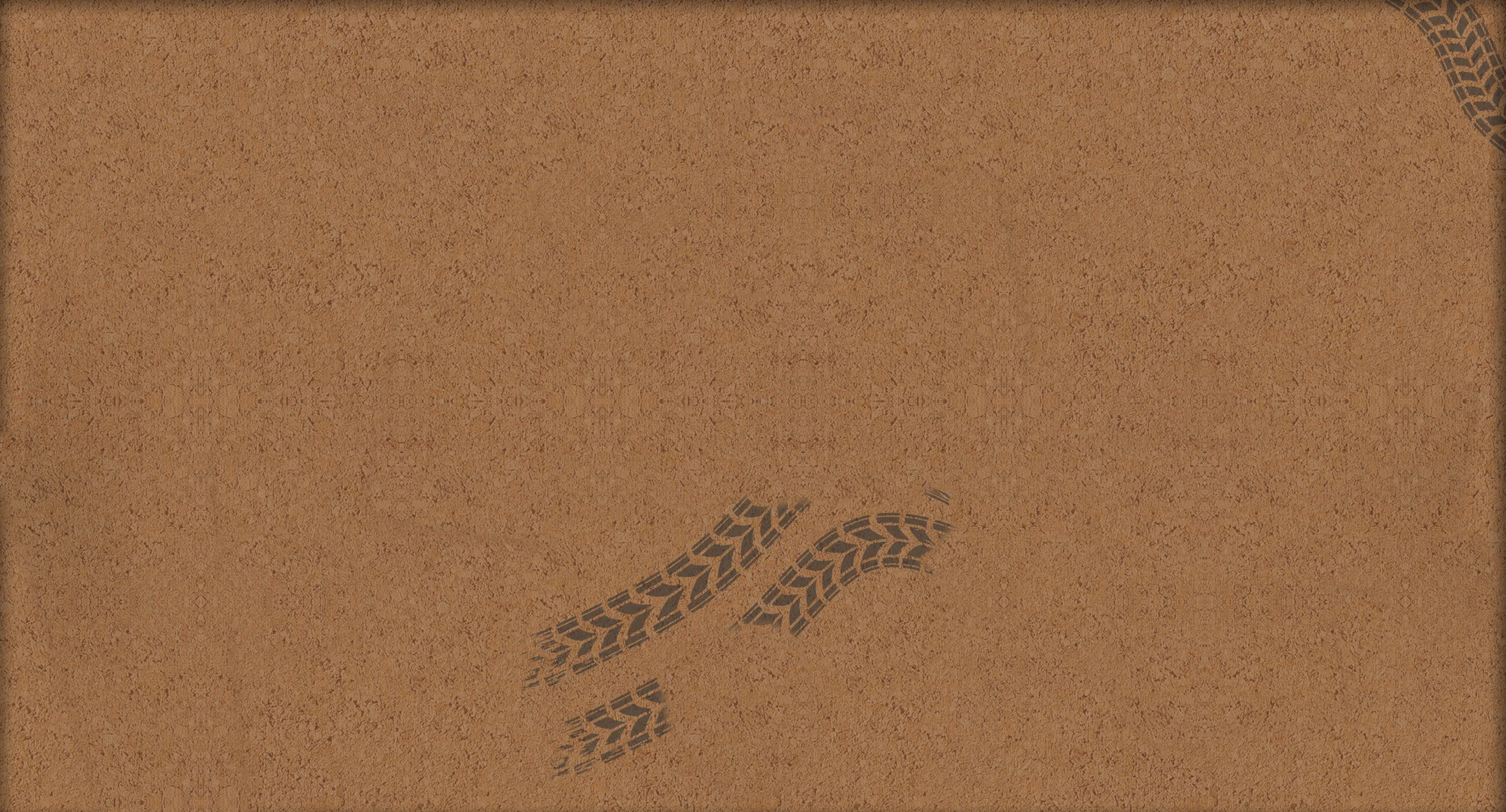
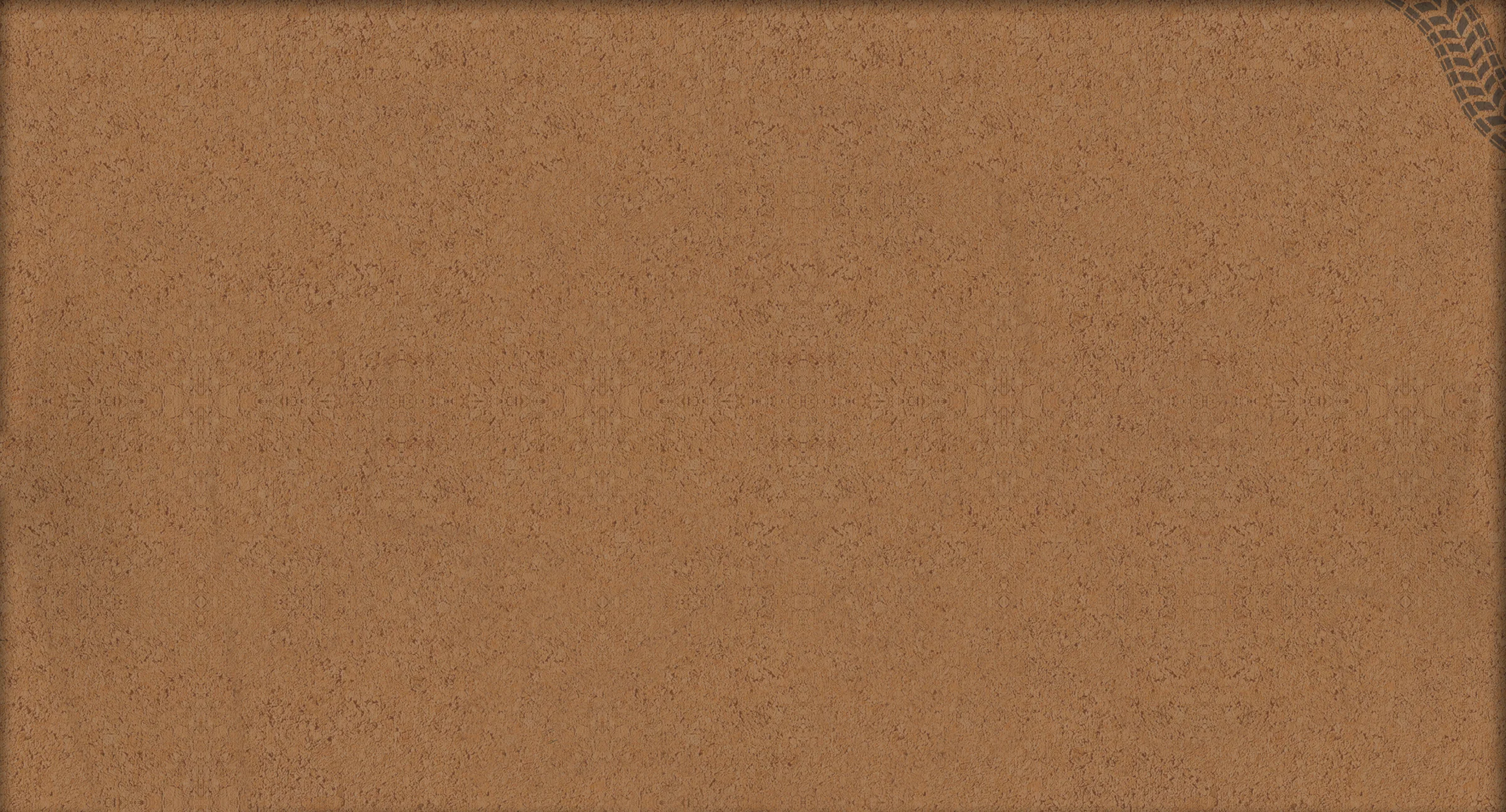
Skid the tyre tracks in together with the Arsenal badge
The middle tyre tracks are now their own intro layer (removed from the
empty board). They sit at the bottom of the stack but wipe on from the
left, like a skid, at the moment the Arsenal badge slaps on.

Claude-Session: https://claude.ai/code/session_01MNwSfy4EnFN7e8nUhBQsgL

diff --git a/src/components/letters/BoardIntro.tsx b/src/components/letters/BoardIntro.tsx
@@ -14,8 +14,11 @@ const TITLE_GAP = 0.25;     // pause before the title
 const HOLD = 0.55;          // hold the finished collage before handing over
 const LOAD_TIMEOUT = 2500;  // give up and skip if the images are this slow
 
-const pieces = INTRO_PIECES.filter((p) => p.name !== "title");
+const pieces = INTRO_PIECES.filter((p) => p.name !== "title" && p.name !== "tracks");
 const title = INTRO_PIECES.find((p) => p.name === "title");
+const tracks = INTRO_PIECES.find((p) => p.name === "tracks");
+/** The tyre tracks skid in at the same moment the Arsenal badge lands. */
+const TRACKS_AT = FIRST + Math.max(0, pieces.findIndex((p) => p.name === "arsenal")) * STEP;
 const zOf = (name: string) => INTRO_PIECES.findIndex((p) => p.name === name) + 1;
 const src = (name: string) => `/board/intro/${name}.webp`;
 
@@ -83,6 +86,17 @@ export function BoardIntro({ onStamp, onDone }: { onStamp: () => void; onDone: (
             {ready && (
               <>
                 <img src={src("empty")} alt="" className="absolute inset-0 h-full w-full" draggable={false} />
+                {tracks && (
+                  <motion.img
+                    src={src("tracks")} alt="" draggable={false}
+                    className="absolute select-none"
+                    style={{ left: `${tracks.x}%`, top: `${tracks.y}%`, width: `${tracks.w}%`, zIndex: zOf("tracks") }}
+                    // a quick skid: the stain wipes on from the left, along the direction of travel
+                    initial={{ clipPath: "inset(0% 100% 0% 0%)", opacity: 0.6 }}
+                    animate={{ clipPath: "inset(0% 0% 0% 0%)", opacity: 1 }}
+                    transition={{ delay: TRACKS_AT - 0.05, duration: 0.38, ease: [0.3, 0.7, 0.4, 1] }}
+                  />
+                )}
                 {pieces.map((p, i) => (
                   <Piece key={p.name} name={p.name} box={p} delay={FIRST + i * STEP} />
                 ))}

diff --git a/src/lib/intro.ts b/src/lib/intro.ts
@@ -2,11 +2,13 @@
  * Intro sequence: the collage, cut into its pieces. Each piece is an image in
  * /public/board/intro/<name>.webp; x / y / w / h are % of the collage, and the
  * list is in stacking order (bottom first), which is also the order they slap on.
- * The title is last; empty.webp is the bare cork they land on.
+ * The tyre tracks sit at the bottom of the stack but skid in with the Arsenal
+ * badge; the title is last. empty.webp is the bare cork they land on.
  */
 export type IntroPiece = { name: string; x: number; y: number; w: number; h: number };
 
 export const INTRO_PIECES: IntroPiece[] = [
+  { name: "tracks", x: 30.625, y: 55.521, w: 37.083, h: 44.479 },
   { name: "strip-left", x: 0.167, y: 53.282, w: 10.0, h: 46.409 },
   { name: "strip-right", x: 6.542, y: 54.749, w: 9.333, h: 44.942 },
   { name: "secret", x: 1.333, y: 33.9, w: 20.292, h: 23.629 },
